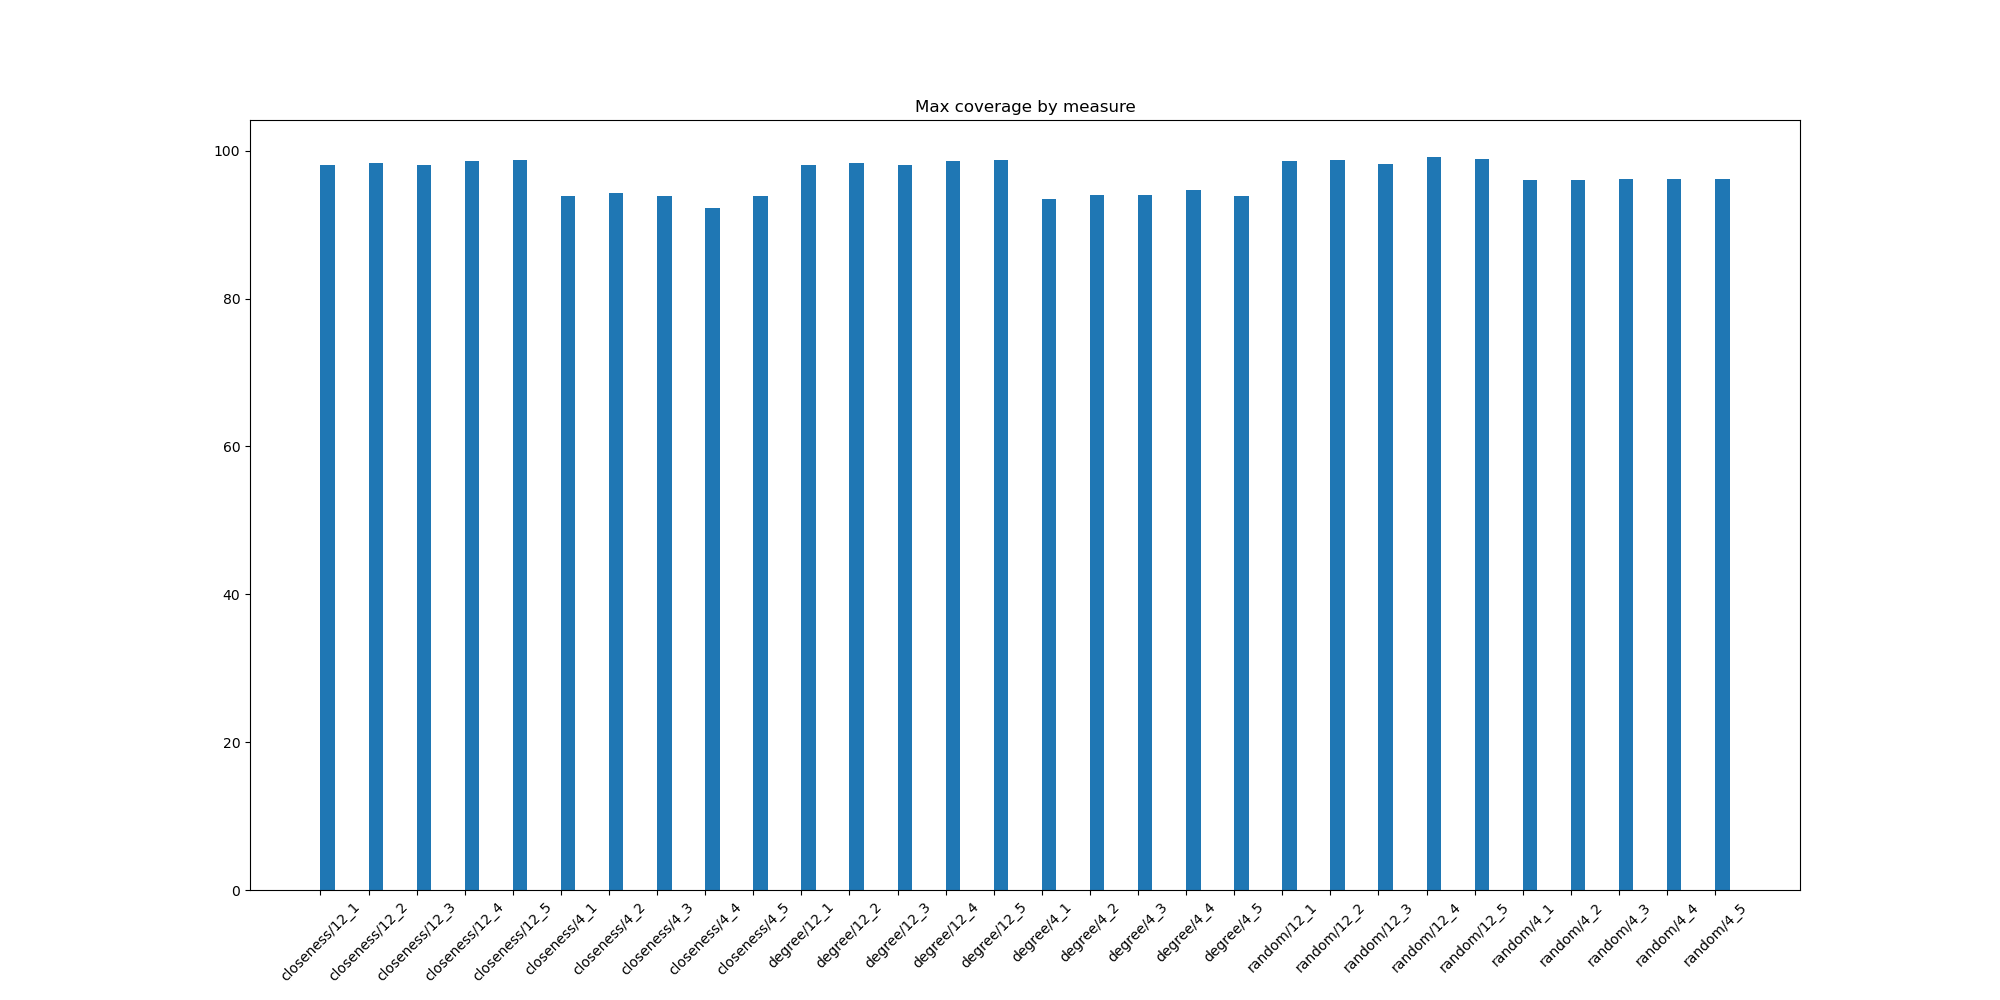
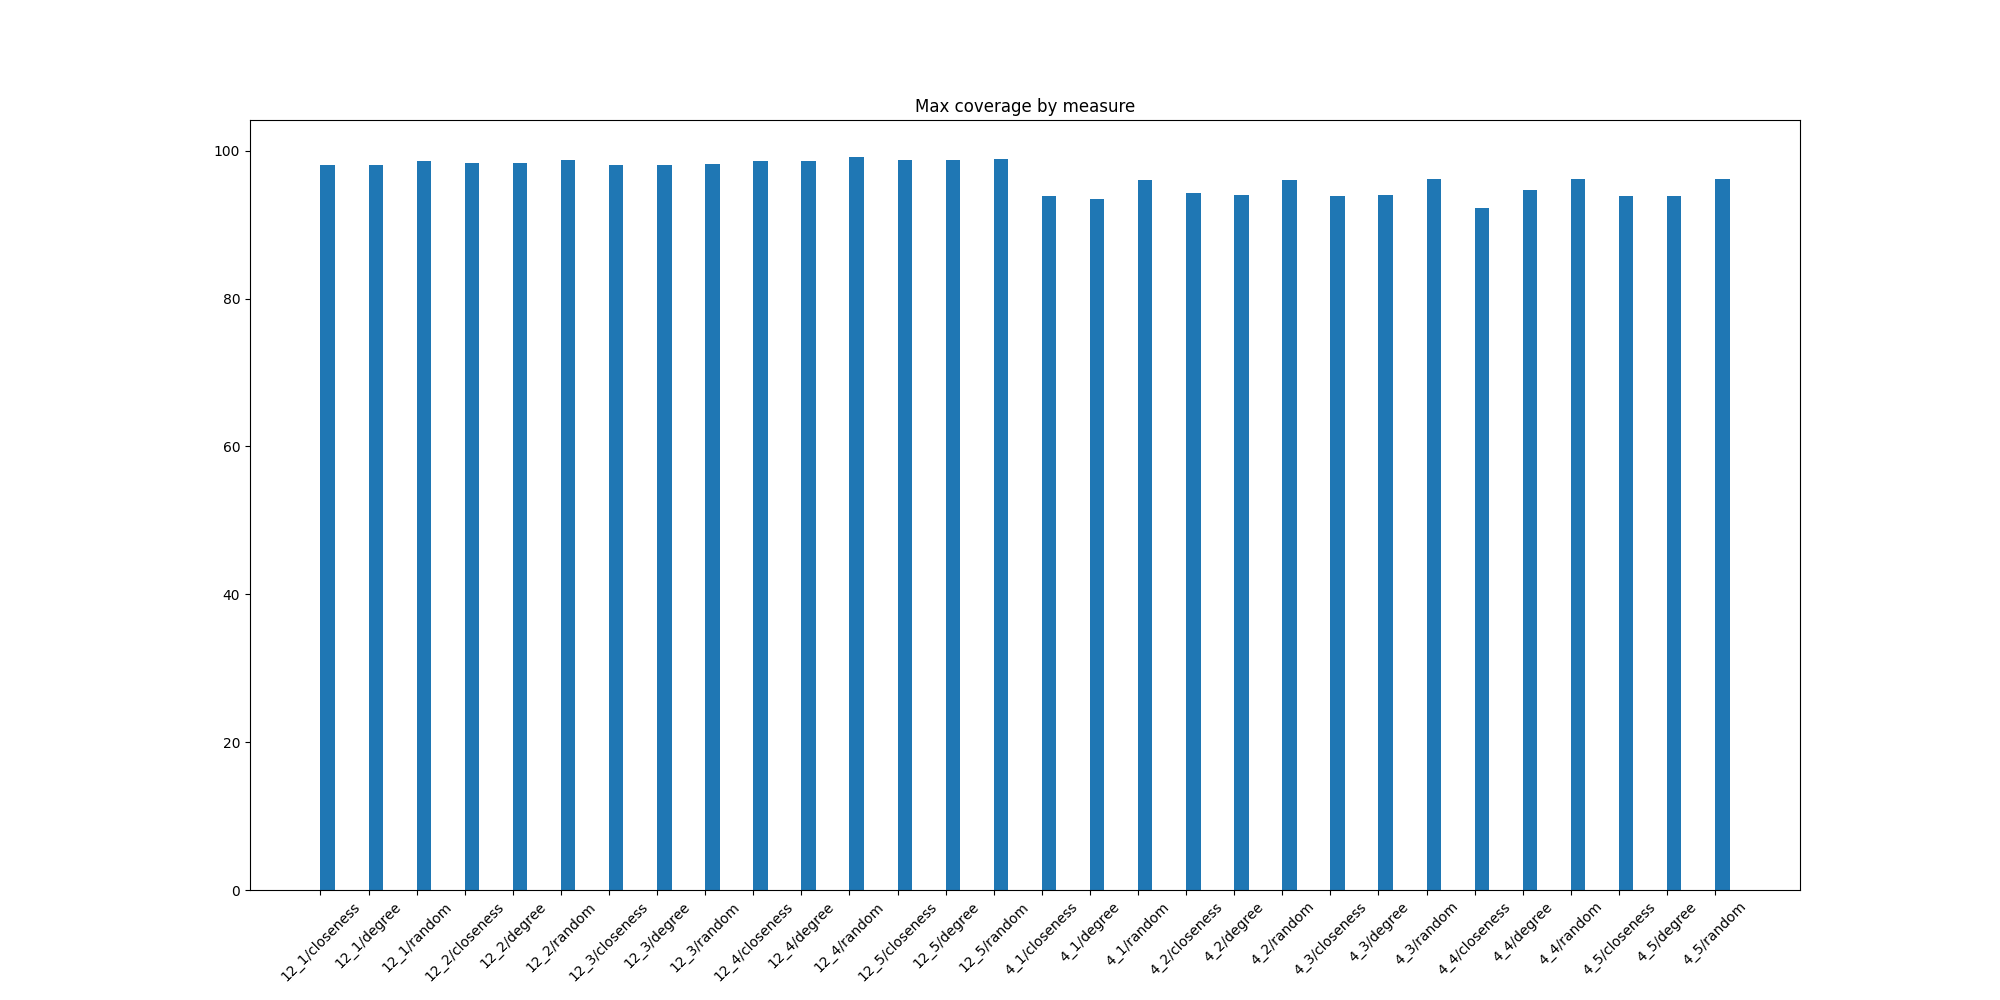
complex network improving plot

diff --git a/complex-network/zad3/src/Service/GraphModelGenerator.py b/complex-network/zad3/src/Service/GraphModelGenerator.py
@@ -93,17 +93,32 @@ class GraphModelGenerator:
         self.__bar(measure_uniques, mean_steps_by_measure, plot_title, filename)
 
     def generate_max_coverage_by_method(self, filename: str = 'max_coverage_by_method.png'):
-        measure_uniques = self._file['Measure'].unique()
-        max_coverage_by_measure = self._file.groupby(['Measure', 'Network'])['IF'].max()
-        names = list(map(lambda name_array: '/'.join(name_array).replace('.txt', ''), max_coverage_by_measure.index.to_numpy()))
+        max_coverage_by_measure = self._file.groupby(['Network', 'Measure'])['IF'].max()
+        names = self._file['Network'].unique()
 
         plot_title = 'Max coverage by measure'
-        plt.figure(figsize=(20, 10))
-        plt.bar(names, max_coverage_by_measure, align='edge', width=0.3)
-        plt.xticks(rotation=45, x=-10)
-        plt.title(plot_title)
+        x = np.arange(len(names))
+        width = 0.35
+
+        fig, ax = plt.subplots(figsize=(20, 10))
+        rects1 = ax.bar(x - width / 3, max_coverage_by_measure[::3], width, label='degree')
+        rects2 = ax.bar(x + width / 3, max_coverage_by_measure[1::3], width, label='closeness')
+        rects3 = ax.bar(x + width / 3, max_coverage_by_measure[2::3], width, label='random')
+
+        ax.set_xticks(x, names)
+        ax.set_ylabel('Infection coverage (%)')
+        ax.legend()
+
+        ax.bar_label(rects1, padding=3)
+        ax.bar_label(rects2, padding=3)
+        ax.bar_label(rects3, padding=3)
+
+        ax.set_title(plot_title)
         plt.savefig(f'{self.save_filepath}/{filename}')
-        plt.close()
+        plt.close(fig)
+
+    def generate_max_coverage_by_method_and_pp(self, filename: str = 'max_coverage_by_method_and_pp.png'):
+        grouped_by_network_and_column = self._file.groupby(['Network', 'Measure'])
 
     def __read_file(self, filepath: str = None) -> pd.DataFrame:
         return pd.read_csv(self._default_filepath_data if filepath is None else filepath)

diff --git a/complex-network/zad3/main.py b/complex-network/zad3/main.py
@@ -21,15 +21,15 @@ if __name__ == '__main__':
 
     graph_model_generator = GraphModelGenerator()
 
-    graph_model_generator.generate_mean_coverage_by_network()
-    graph_model_generator.generate_mean_coverage_by_pp()
-    graph_model_generator.generate_mean_coverage_by_sf()
-    graph_model_generator.generate_mean_coverage_by_measure()
-
-    graph_model_generator.generate_mean_steps_by_network()
-    graph_model_generator.generate_mean_steps_by_pp()
-    graph_model_generator.generate_mean_steps_by_sf()
-    graph_model_generator.generate_mean_steps_by_measure()
+    # graph_model_generator.generate_mean_coverage_by_network()
+    # graph_model_generator.generate_mean_coverage_by_pp()
+    # graph_model_generator.generate_mean_coverage_by_sf()
+    # graph_model_generator.generate_mean_coverage_by_measure()
+    #
+    # graph_model_generator.generate_mean_steps_by_network()
+    # graph_model_generator.generate_mean_steps_by_pp()
+    # graph_model_generator.generate_mean_steps_by_sf()
+    # graph_model_generator.generate_mean_steps_by_measure()
 
     graph_model_generator.generate_max_coverage_by_method()
 
